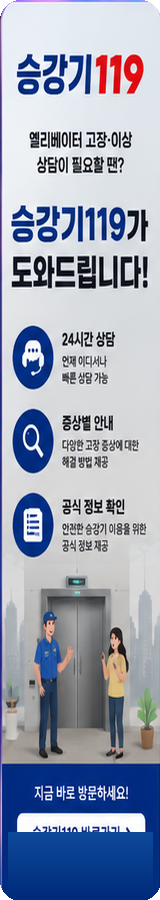
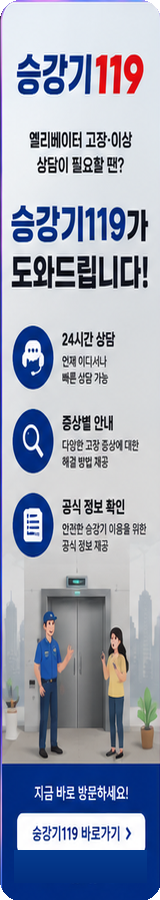
Add files via upload

Changed region(s): [[0.0312, 0.9022, 0.9688, 0.9644]]

diff --git a/index.html b/index.html
@@ -6,7 +6,7 @@
   <meta name="theme-color" content="#141122" />
   <title>랜덤키우기</title>
   <link rel="manifest" href="manifest.json" />
-  <link rel="stylesheet" href="styles.css?v=45-e119-footer-natural" />
+  <link rel="stylesheet" href="styles.css?v=46-e119-footer-fixed" />
 </head>
 <body>
   <div id="app">